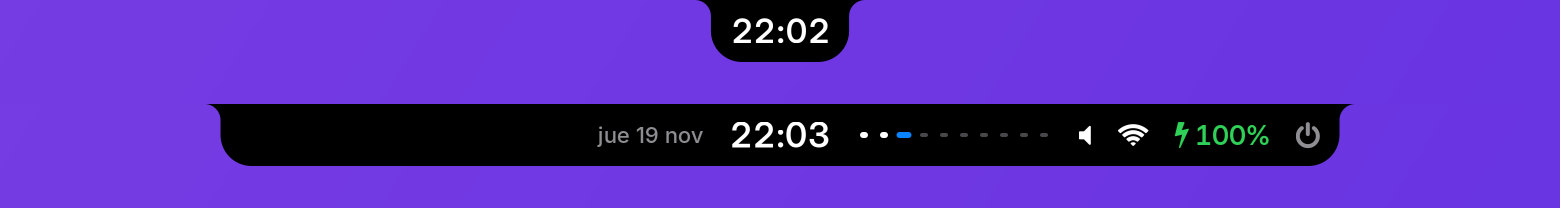
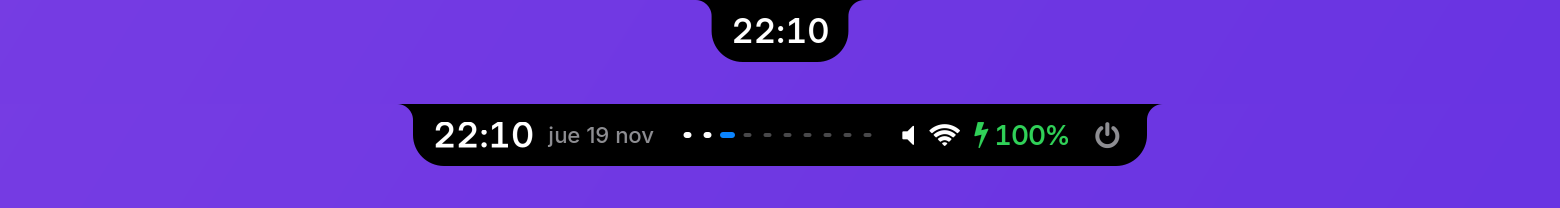
Fuera el hueco de la izquierda: la fila mide lo que lleva
Para que la hora no se moviera al abrirse la fila entera, las dos alas
se equilibraban con un hueco. Con todo el estado a la derecha, ese hueco
eran 180 px de negro vacio a la izquierda del reloj, y se leia como un
fallo -- que es exactamente lo que parecia.

Se quita, y con el las alas: vuelve el orden de siempre --hora,
escritorios, estado- en una sola fila que mide lo que lleva dentro. La
hora se mueve al abrirse, si, pero eso es el gesto de abrirse; un hueco
negro permanente no era el precio.

Claude-Session: https://claude.ai/code/session_01XVYWSP19DR3ycNTVCStvp5

Changed region(s): [[0.1231, 0.4904, 0.8615, 0.8077], [0.4615, 0.0865, 0.5538, 0.2019]]

diff --git a/islandd.py b/islandd.py
@@ -804,46 +804,43 @@ class Island(Gtk.Window):
     def build_idle(self, cr):
         """La isla en reposo: la hora, y poco mas.
 
-        El estado --volumen, wifi, bateria, fecha, encendido- aparece al
-        acercar el raton y desaparece al apartarlo. Un icono permanente
-        para algo que el 95% del tiempo dice "normal" ocupa sitio para no
-        decir nada; y la regla ya la cumplian el dictado y el "no
-        molestar", asi que esto es aplicarla al resto.
+        El estado --fecha, escritorios, volumen, wifi, bateria,
+        encendido- aparece al acercar el raton y se va al apartarlo. Un
+        icono permanente para algo que el 95% del tiempo dice "normal"
+        ocupa sitio para no decir nada; y la regla ya la cumplian el
+        dictado y el "no molestar", asi que esto es aplicarla al resto.
 
         Lo que SI sale sin pedirlo es lo que esta pasando AHORA: que
         estes dictando, que haya un microfono abierto, que el sonido
         este silenciado, que no haya wifi, que la bateria este en las
         ultimas, que corra una cuenta. Son excepciones, no estado fijo.
 
-        Y las dos alas se equilibran con un hueco, asi que el RELOJ se
-        queda clavado en el centro pase lo que pase: la fila crece hacia
-        los dos lados en vez de empujar la hora, y se puede seguir
-        apuntando a ella mientras crece.
+        El orden es el de siempre --hora, escritorios, estado- y la fila
+        mide lo que lleva dentro: nada de huecos de relleno para
+        cuadrarla, que se ven como un fallo.
         """
         si = self.sys
         amp = self._dentro          # el raton, encima
-        izq, der = R.Row(), R.Row()
+        fila = R.Row()
 
-        def ala(fila, *cosas):
+        def grupo(*cosas):
             """Añade un grupo separandolo del anterior."""
             if fila.items:
                 fila.add(R.Gap(T.GAP_GROUP))
             fila.add(*cosas)
 
-        # --- ala izquierda: la fecha, que es contexto y no estado.
+        # --- la hora, y con el raton encima tambien la fecha. Mismo
+        #     grupo: la fecha acompana al reloj, no es otra cosa.
+        reloj = [R.Rodillo(self._rodillo("reloj", time.strftime("%H:%M")),
+                           T.F_CLOCK, T.FG)]
         if amp:
-            izq.add(R.Text(time.strftime("%a %d %b"), T.F_SMALL, T.DIM))
+            reloj += [R.Gap(T.GAP_ITEM),
+                      R.Text(time.strftime("%a %d %b"), T.F_SMALL, T.DIM)]
+        grupo(R.Row(reloj, tag="clock"))
 
-        # --- el ancla
-        reloj = R.Row([R.Rodillo(self._rodillo("reloj",
-                                               time.strftime("%H:%M")),
-                                 T.F_CLOCK, T.FG)], tag="clock")
-
-        # --- ala derecha, de lo mas efimero a lo mas fijo.
-        #
-        # Escritorios: al pasar el raton, y un rato despues de cambiar de
-        # uno. Fuera de eso no esta: el escritorio en el que estas lo
-        # dicen las ventanas que tienes delante, y la pildora solo
+        # --- escritorios: al pasar el raton, y un rato despues de
+        # cambiar de uno. Fuera de eso no estan: en que escritorio estas
+        # lo dicen las ventanas que tienes delante, y la pildora solo
         # importa en el instante en que cambias.
         if amp or time.monotonic() < getattr(self, "_ws_hasta", 0.0):
             estados = [st for _n, st in self.bspwm.desktops]
@@ -859,23 +856,23 @@ class Island(Gtk.Window):
                     self.sp_pop.snap(T.SEG_BAR)
                     self.sp_pop.set(T.SEG_SLOT)
                 self.ensure_tick()
-            ala(der, R.Row([R.WsBar(estados, self.sp_wsx.value,
-                                    self.sp_pop.value,
-                                    getattr(self, "_ws_salida", None))],
-                           tag="ws"))
+            grupo(R.Row([R.WsBar(estados, self.sp_wsx.value,
+                                 self.sp_pop.value,
+                                 getattr(self, "_ws_salida", None))],
+                        tag="ws"))
 
-        # Cuentas en marcha. Van pegadas al reloj porque son lo mismo
+        # --- cuentas en marcha. Pegadas al reloj porque son lo mismo
         # que el reloj --tiempo- y el clic lleva a su pestana.
         for cual, texto, corre in self.tiempos.activos():
             col = self._color_tiempo(cual, corre)
-            ala(der, R.Row([
+            grupo(R.Row([
                 self._ico(cual, 24, col),
                 R.Gap(8),
                 R.Rodillo(self._rodillo("t:" + cual, texto), T.F_TITLE, col),
             ], tag="tiempo:" + cual))
 
-        # Dictado disponible: el logo de la IA y la palabra, para que la
-        # primera vez se entienda que el logo no es decoracion sino
+        # --- dictado disponible: el logo de la IA y la palabra, para que
+        # la primera vez se entienda que el logo no es decoracion sino
         # donde va a caer lo que digas.
         quiere = 1.0 if self.foco.ia else 0.0
         if self.sp_mic.target != quiere:
@@ -883,22 +880,22 @@ class Island(Gtk.Window):
             self.ensure_tick()
         if self.sp_mic.value > 0.01 or self.foco.ia:
             logo = self.foco.ia or "claude"
-            ala(der, R.Row([R.Alfa(R.Row([
+            grupo(R.Row([R.Alfa(R.Row([
                 R.Icon("ia-" + logo, 22, T.FG, T.G_MIC, T.F_SMALL),
                 R.Gap(8),
                 R.Text("Dictado", T.F_SMALL, T.DIM),
             ]), self.sp_mic)], tag="dictado"))
             self._mic_en_fila = True
 
-        # Micro abierto por OTRO programa. Se queda mientras dure: lo que
-        # importa de esto no es el aviso, es poder mirar el notch y saber
-        # si te estan escuchando.
+        # --- micro abierto por OTRO programa. Se queda mientras dure: lo
+        # que importa de esto no es el aviso, es poder mirar el notch y
+        # saber si te estan escuchando.
         quiere_rec = 1.0 if self.micro.abierto else 0.0
         if self.sp_rec.target != quiere_rec:
             self.sp_rec.set(quiere_rec)
             self.ensure_tick()
         if self.sp_rec.value > 0.01 or self.micro.abierto:
-            ala(der, R.Row([R.Alfa(R.Row([
+            grupo(R.Row([R.Alfa(R.Row([
                 R.Dot(7, T.RED),
                 R.Gap(7),
                 self._ico("mic", 22, T.RED, T.G_MIC),
@@ -906,7 +903,17 @@ class Island(Gtk.Window):
             self._rec_en_fila = True
 
         if self.dnd:
-            ala(der, R.Row([self._ico("bell-off", 28, T.ORANGE)], tag="dnd"))
+            grupo(R.Row([self._ico("bell-off", 28, T.ORANGE)], tag="dnd"))
+
+        # --- estado. Los tres van juntos y separados entre si por
+        # GAP_ITEM, no por GAP_GROUP: son una sola cosa, "como esta la
+        # maquina", y de ahi que compartan grupo.
+        estado = R.Row()
+
+        def item(*cosas):
+            if estado.items:
+                estado.add(R.Gap(T.GAP_ITEM))
+            estado.add(*cosas)
 
         # Volumen: solo silenciado. Subir y bajar ya saca su pildora, y
         # un altavoz encendido no es una noticia.
@@ -914,16 +921,15 @@ class Island(Gtk.Window):
             nom = ("vol-mute" if si.muted else
                    ["vol-mute", "vol-low", "vol-mid",
                     "vol-high"][1 + min(2, si.volume // 40)])
-            ala(der, R.Row([self._ico(nom, 28,
-                                      T.DIM2 if si.muted else T.FG,
-                                      T.G_MUTE)], tag="vol"))
+            item(R.Row([self._ico(nom, 28, T.DIM2 if si.muted else T.FG,
+                                  T.G_MUTE)], tag="vol"))
 
         # Wifi: solo cuando NO hay. Un icono de wifi conectado no dice
         # nada que no sepas ya por estar usando la red.
         if amp or not si.wifi:
-            ala(der, R.Row([self._ico("wifi" if si.wifi else "wifi-off", 28,
-                                      T.FG if si.wifi else T.DIM2,
-                                      T.G_WIFI)], tag="net"))
+            item(R.Row([self._ico("wifi" if si.wifi else "wifi-off", 28,
+                                  T.FG if si.wifi else T.DIM2,
+                                  T.G_WIFI)], tag="net"))
 
         # Bateria: al pasar el raton, o cuando queda poca. El enchufe ya
         # saca su tarjeta al conectarlo, asi que "cargando" no necesita
@@ -940,39 +946,12 @@ class Island(Gtk.Window):
                        R.Gap(6),
                        R.Rodillo(self._rodillo("bat", "%d%%" % si.battery),
                                  T.F_TITLE, col)]
-            ala(der, R.Row(bat, tag="bat"))
+            item(R.Row(bat, tag="bat"))
 
+        if estado.items:
+            grupo(estado)
         if amp:
-            ala(der, self._ico("power", 28, T.DIM, T.G_POWER, tag="power"))
-
-        # Equilibrado: el hueco va en el ala corta, asi el centro de la
-        # fila cae en el centro del reloj y la hora no se mueve al
-        # abrirse la fila entera -- que es cuando importa, porque la
-        # estas apuntando con el raton.
-        #
-        # Solo con el raton encima. En reposo la isla se ajusta a lo que
-        # lleva: equilibrarla ahi la dejaria del doble de ancha, con
-        # medio cuerpo negro vacio, que es justo lo contrario de lo que
-        # se busca.
-        fila = R.Row()
-        if amp:
-            wi, wd = izq.size(cr)[0], der.size(cr)[0]
-            if izq.items:
-                wi += T.GAP_GROUP
-            if der.items:
-                wd += T.GAP_GROUP
-            if wd > wi:
-                fila.add(R.Gap(wd - wi))
-            resto = max(0.0, wi - wd)
-        else:
-            resto = 0.0
-        if izq.items:
-            fila.add(izq, R.Gap(T.GAP_GROUP))
-        fila.add(reloj)
-        if der.items:
-            fila.add(R.Gap(T.GAP_GROUP), der)
-        if resto:
-            fila.add(R.Gap(resto))
+            grupo(self._ico("power", 28, T.DIM, T.G_POWER, tag="power"))
         return fila
 
 

diff --git a/README.md b/README.md
@@ -68,8 +68,10 @@ notificación, el cargador enchufado.
 
 **En reposo, solo la hora.** 126 píxeles. El volumen, el wifi, la batería, la
 fecha y el botón de encendido no están: aparecen al acercar el ratón y se van
-al apartarlo, y el reloj se queda **clavado en el sitio** mientras la fila
-crece hacia los dos lados, para que puedas seguir apuntándolo. Un icono
+al apartarlo, en el orden de siempre — hora, escritorios, estado. La fila mide
+exactamente lo que lleva dentro: se probó a rellenar con un hueco para que la
+hora no se moviera ni un píxel al abrirse, y el remedio era peor que la
+enfermedad, porque ese hueco negro de 180 px se lee como un fallo. Un icono
 permanente para algo que el 95% del tiempo dice «normal» ocupa sitio para no
 decir nada — y la regla ya la cumplían el dictado y el «no molestar»; esto es
 aplicarla al resto.
